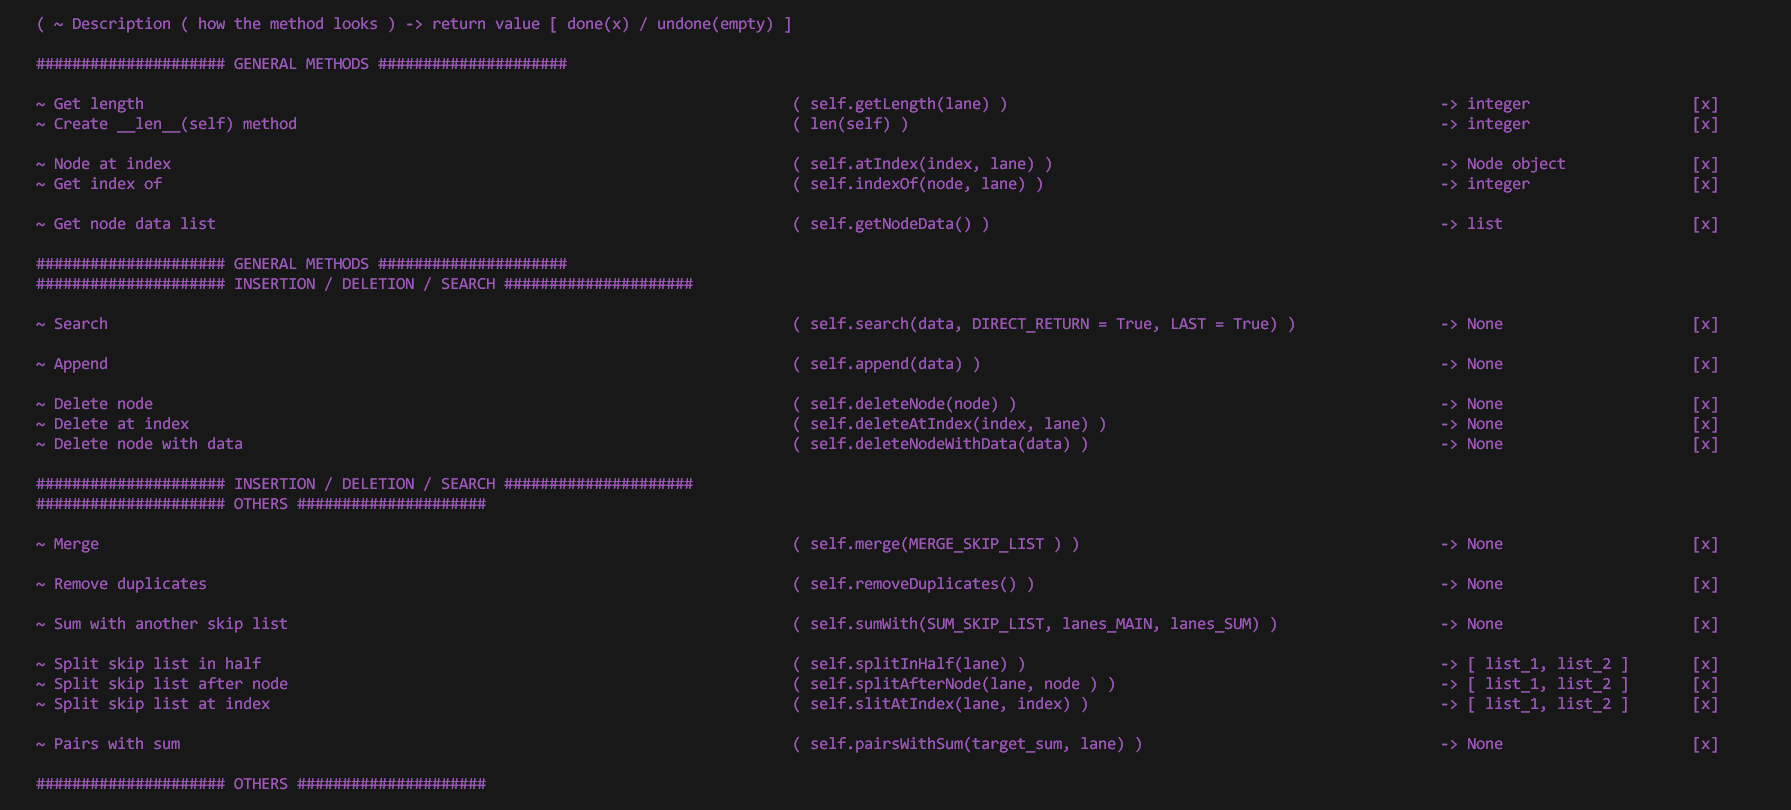
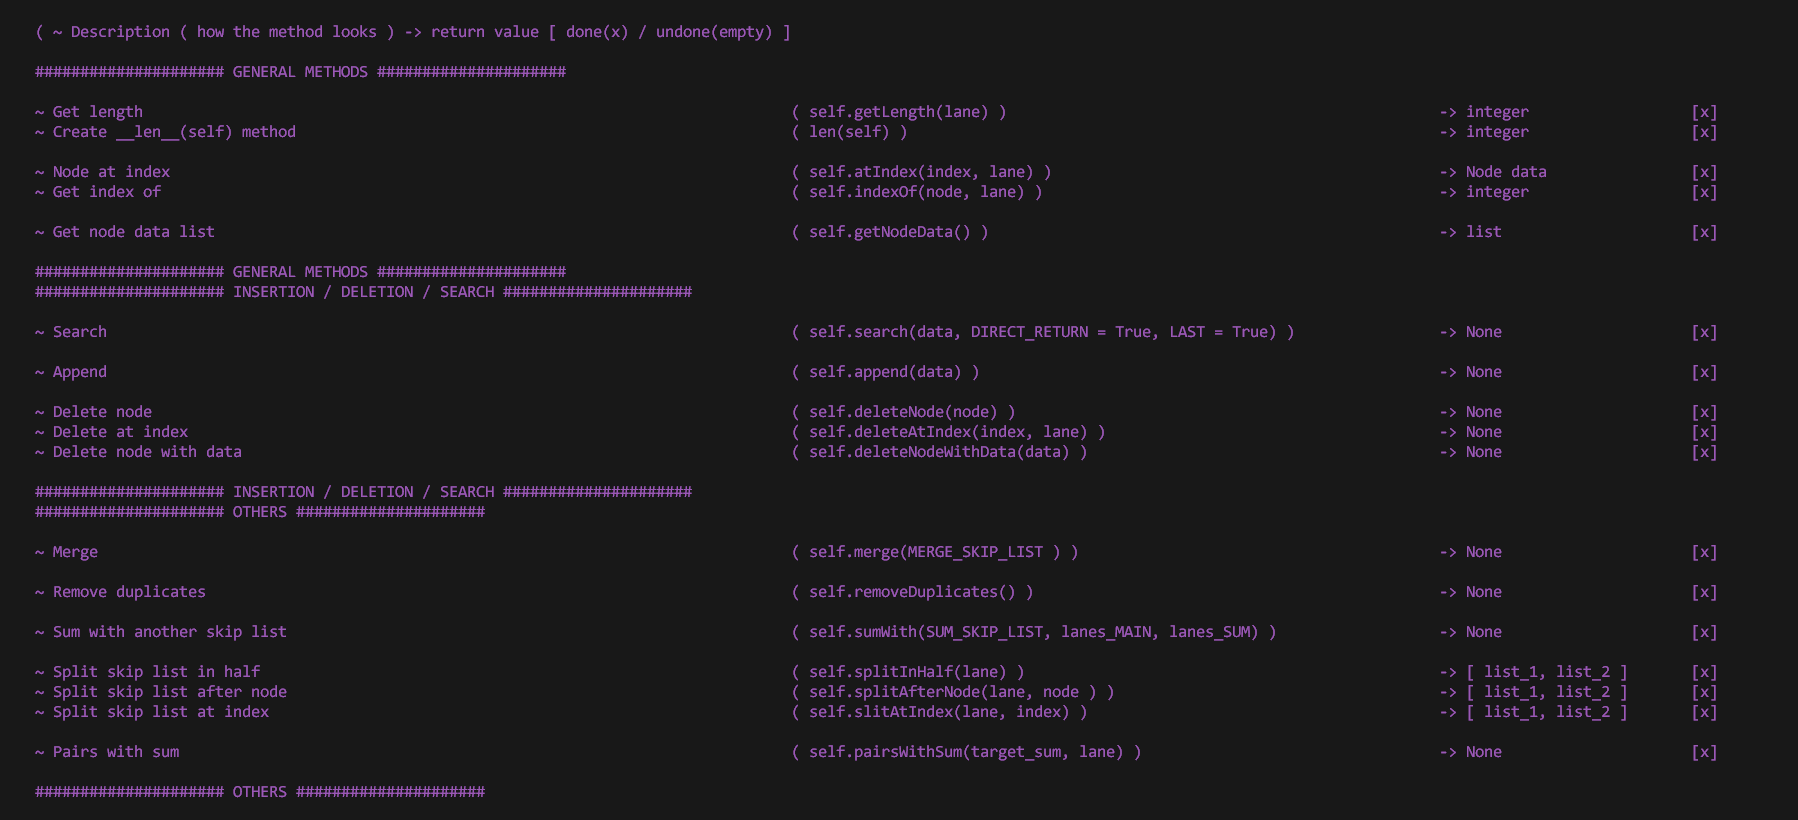
Skip List - 5 lanes - Final Code

diff --git a/Data structures ( code in python )/Linear Data Structures/Skip List ( Python Code )/SkipList_5Lanes_FinalCode.py b/Data structures ( code in python )/Linear Data Structures/Skip List ( Python Code )/SkipList_5Lanes_FinalCode.py
@@ -22,7 +22,7 @@ class SkipList(object):
         ~ Get length                                                                        ( self.getLength(lane) )                                                -> integer                  [x]
         ~ Create __len__(self) method                                                       ( len(self) )                                                           -> integer                  [x]
 
-        ~ Node at index                                                                     ( self.atIndex(index, lane) )                                           -> Node object              [x]
+        ~ Node at index                                                                     ( self.atIndex(index, lane) )                                           -> Node data                [x]
         ~ Get index of                                                                      ( self.indexOf(node, lane) )                                            -> integer                  [x]
 
         ~ Get node data list                                                                ( self.getNodeData() )                                                  -> list                     [x]
